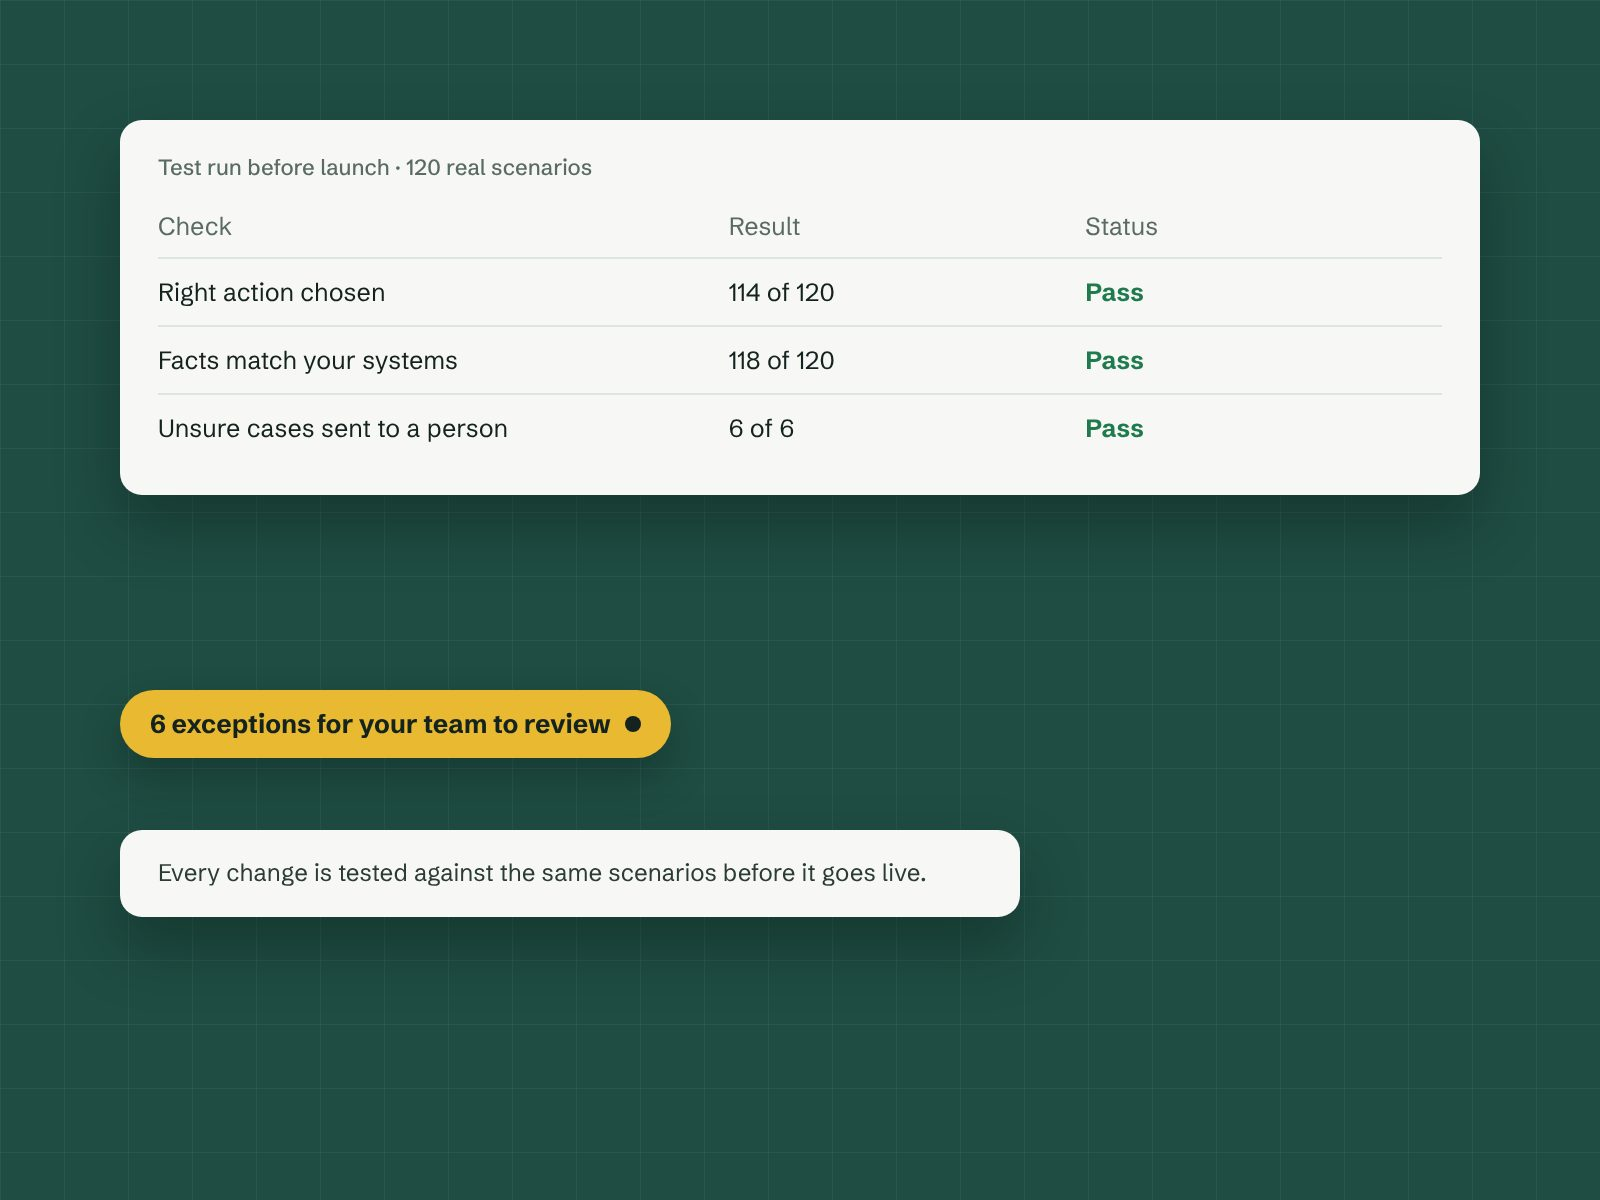
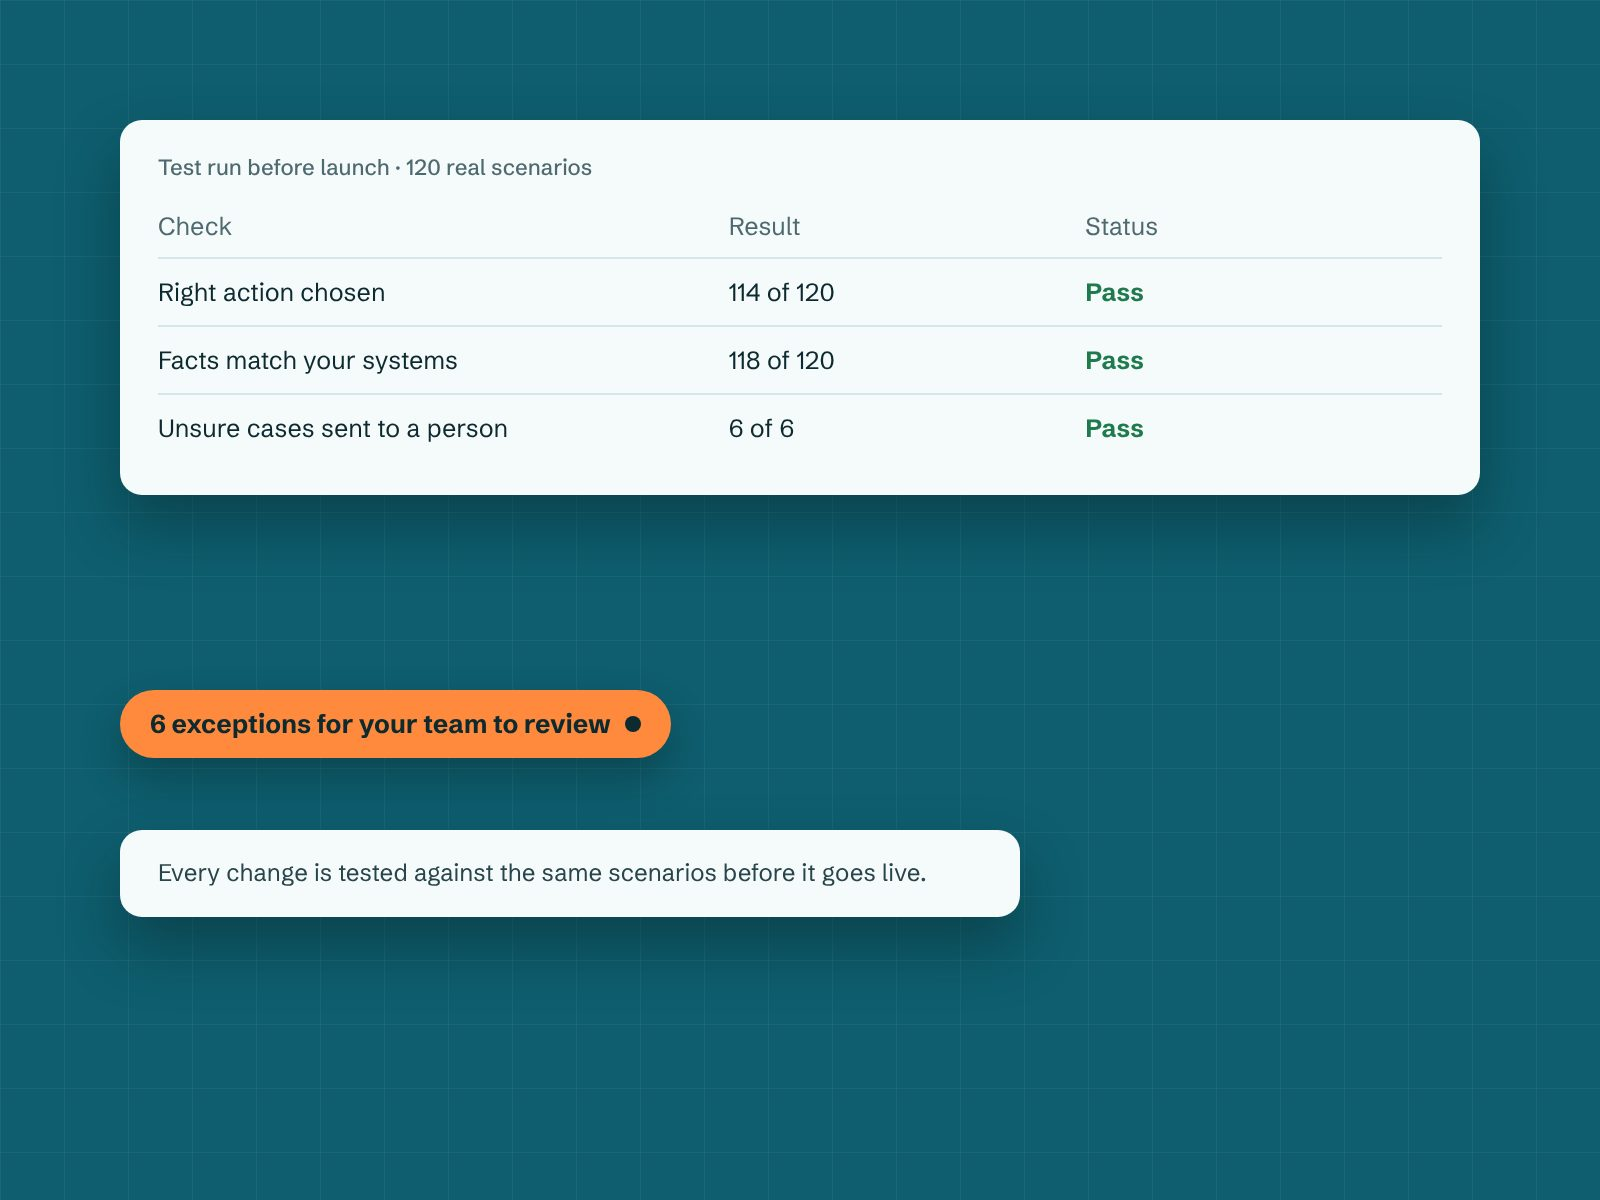
Switch to teal and orange colours

diff --git a/styles.css b/styles.css
@@ -6,15 +6,15 @@
 @font-face { font-family: 'Schibsted Grotesk'; src: url(fonts/schibsted-grotesk-latin-800-normal.woff2) format('woff2'); font-weight: 800; font-display: swap; }
 
 :root {
-  --paper: #F7F8F5;   /* page background */
-  --ink: #14231F;     /* text */
-  --pine: #1F4D43;    /* dark bands */
-  --pine-2: #2C6456;
-  --kowhai: #E8B931;  /* used only where a person stays in control */
-  --mist: #DCE5E0;    /* lines and quiet fills */
-  --slate: #56675F;   /* secondary text */
-  --on-pine: #E9EFEB;
-  --on-pine-muted: #B7C8C0;
+  --paper: #F5FAFA;   /* page background */
+  --ink: #0D2A30;     /* text */
+  --teal: #0E5E6F;    /* dark bands and buttons */
+  --teal-2: #0F6B7E;
+  --accent: #FF8A3D;  /* orange: used only where a person stays in control */
+  --mist: #D6E7EA;    /* lines and quiet fills */
+  --slate: #4E6A70;   /* secondary text */
+  --on-teal: #E6F3F5;
+  --on-teal-muted: #BCDDE3;
   --radius: 14px;
   --wrap: 1160px;
 }
@@ -30,7 +30,7 @@ body {
 img { max-width: 100%; height: auto; display: block; }
 h1, h2, h3, p, ol, ul, dl, figure { margin: 0; }
 a { color: inherit; }
-:focus-visible { outline: 3px solid var(--kowhai); outline-offset: 3px; border-radius: 4px; }
+:focus-visible { outline: 3px solid var(--accent); outline-offset: 3px; border-radius: 4px; }
 
 .wrap { max-width: var(--wrap); margin: 0 auto; padding: 0 24px; }
 .skip { position: absolute; left: -999px; top: 8px; background: var(--ink); color: var(--paper); padding: 8px 14px; z-index: 50; }
@@ -39,7 +39,7 @@ a { color: inherit; }
 /* ---------- Buttons and links ---------- */
 .btn {
   display: inline-flex; align-items: center; justify-content: center; gap: 8px;
-  background: var(--pine); color: var(--paper); text-decoration: none; border: 0;
+  background: var(--teal); color: var(--paper); text-decoration: none; border: 0;
   font: inherit; font-weight: 600; font-size: 16px; line-height: 1.2;
   padding: 15px 24px; border-radius: 999px; cursor: pointer;
 }
@@ -49,18 +49,18 @@ a { color: inherit; }
 .btn-ghost:hover { background: var(--ink); color: var(--paper); }
 .btn-light { background: var(--paper); color: var(--ink); }
 .btn-light:hover { background: #FFFFFF; }
-.btn-kowhai { background: var(--kowhai); color: var(--ink); }
-.btn-kowhai:hover { background: #F2C84A; }
+.btn-accent { background: var(--accent); color: var(--ink); }
+.btn-accent:hover { background: #FF9E5E; }
 .text-link { font-weight: 600; text-decoration-thickness: 2px; text-underline-offset: 4px; }
-.text-link.on-dark { color: var(--paper); text-decoration-color: var(--kowhai); font-size: 20px; }
+.text-link.on-dark { color: var(--paper); text-decoration-color: var(--accent); font-size: 20px; }
 
 /* ---------- Header ---------- */
-.site-head { position: sticky; top: 0; z-index: 20; background: rgba(247, 248, 245, 0.94); backdrop-filter: blur(8px); border-bottom: 1px solid var(--mist); }
+.site-head { position: sticky; top: 0; z-index: 20; background: rgba(245, 250, 250, 0.94); backdrop-filter: blur(8px); border-bottom: 1px solid var(--mist); }
 .head-row { display: flex; align-items: center; gap: 32px; height: 72px; }
 .brand { display: flex; align-items: center; gap: 12px; text-decoration: none; }
 .mark {
   display: grid; place-items: center; width: 40px; height: 40px; border-radius: 10px;
-  background: var(--pine); color: var(--paper); font-weight: 800; font-size: 22px; line-height: 1; padding-bottom: 3px;
+  background: var(--teal); color: var(--paper); font-weight: 800; font-size: 22px; line-height: 1; padding-bottom: 3px;
 }
 .brand-text { display: flex; flex-direction: column; line-height: 1.15; }
 .brand-text strong { font-size: 17px; font-weight: 700; }
@@ -72,9 +72,9 @@ a { color: inherit; }
 /* ---------- Hero ---------- */
 .hero { padding: 64px 0 72px; }
 .hero-grid { display: grid; grid-template-columns: minmax(0, 0.9fr) minmax(0, 1.1fr); gap: 56px; align-items: center; }
-.kicker { font-size: 15px; font-weight: 600; color: var(--pine-2); margin-bottom: 18px; }
+.kicker { font-size: 15px; font-weight: 600; color: var(--teal-2); margin-bottom: 18px; }
 h1 { font-size: clamp(44px, 6vw, 76px); line-height: 0.98; font-weight: 800; letter-spacing: -0.035em; max-width: 11ch; }
-.lead { font-size: 20px; line-height: 1.5; color: #2D3D38; margin-top: 24px; max-width: 40ch; }
+.lead { font-size: 20px; line-height: 1.5; color: #28454B; margin-top: 24px; max-width: 40ch; }
 .btn-row { display: flex; flex-wrap: wrap; gap: 12px; margin-top: 32px; }
 .hero-note { margin-top: 22px; font-size: 15px; color: var(--slate); }
 
@@ -83,7 +83,7 @@ h1 { font-size: clamp(44px, 6vw, 76px); line-height: 0.98; font-weight: 800; let
 .slides { display: grid; }
 .slide { grid-area: 1 / 1; opacity: 0; visibility: hidden; transition: opacity 700ms ease, visibility 0s linear 700ms; }
 .slide.is-active { opacity: 1; visibility: visible; transition: opacity 700ms ease; }
-.slide img { width: 100%; aspect-ratio: 4 / 3; object-fit: cover; border-radius: 22px; background: var(--pine); }
+.slide img { width: 100%; aspect-ratio: 4 / 3; object-fit: cover; border-radius: 22px; background: var(--teal); }
 .slide figcaption { margin-top: 14px; font-size: 16px; line-height: 1.45; color: var(--slate); min-height: 3em; }
 .slide figcaption strong { display: block; color: var(--ink); font-size: 18px; }
 .slider-controls { display: flex; align-items: center; gap: 10px; margin-top: 10px; }
@@ -93,19 +93,19 @@ h1 { font-size: clamp(44px, 6vw, 76px); line-height: 0.98; font-weight: 800; let
 }
 .arrow { width: 36px; font-size: 22px; line-height: 1; padding-bottom: 3px; }
 .pause { margin-left: auto; padding: 0 14px; font-size: 14px; font-weight: 600; }
-.arrow:hover, .pause:hover { background: #CBD8D1; }
+.arrow:hover, .pause:hover { background: #C2DCE0; }
 .dots { display: flex; gap: 8px; }
-.dots button { width: 28px; height: 6px; border-radius: 3px; border: 0; padding: 0; cursor: pointer; background: #C3D1CA; }
-.dots button[aria-current="true"] { background: var(--pine); }
+.dots button { width: 28px; height: 6px; border-radius: 3px; border: 0; padding: 0; cursor: pointer; background: #BBD6DB; }
+.dots button[aria-current="true"] { background: var(--teal); }
 .slider-note { font-size: 13px; color: var(--slate); margin-top: 8px; }
 @media (prefers-reduced-motion: reduce) { .slide { transition: none; } }
 
 /* ---------- Principles strip ---------- */
-.principles { background: var(--pine); color: var(--on-pine); padding: 40px 0; }
+.principles { background: var(--teal); color: var(--on-teal); padding: 40px 0; }
 .principles-row { display: grid; grid-template-columns: repeat(3, 1fr); gap: 40px; }
 .principles h2 { font-size: 19px; font-weight: 700; color: #FFFFFF; display: flex; align-items: center; gap: 10px; }
-.principles p { color: var(--on-pine-muted); margin-top: 6px; font-size: 16px; }
-.hc { width: 12px; height: 12px; border-radius: 50%; background: var(--kowhai); flex: none; }
+.principles p { color: var(--on-teal-muted); margin-top: 6px; font-size: 16px; }
+.hc { width: 12px; height: 12px; border-radius: 50%; background: var(--accent); flex: none; }
 
 /* ---------- Sections ---------- */
 .section { padding: 96px 0; }
@@ -117,32 +117,32 @@ h1 { font-size: clamp(44px, 6vw, 76px); line-height: 0.98; font-weight: 800; let
 .services { list-style: none; padding: 0; display: grid; grid-template-columns: repeat(3, 1fr); gap: 0; counter-reset: svc; border-top: 2px solid var(--ink); }
 .services > li { counter-increment: svc; padding: 28px 28px 32px 0; display: flex; flex-direction: column; gap: 14px; }
 .services > li + li { padding-left: 28px; border-left: 1px solid var(--mist); }
-.step { font-weight: 700; color: var(--pine-2); font-size: 15px; }
+.step { font-weight: 700; color: var(--teal-2); font-size: 15px; }
 .step::before { content: counter(svc) ". "; }
 .services h3 { font-size: 24px; line-height: 1.2; font-weight: 700; letter-spacing: -0.01em; }
-.services > li > p:not(.step) { color: #33443F; }
+.services > li > p:not(.step) { color: #2E4A50; }
 .services ul { padding-left: 18px; color: var(--slate); font-size: 16px; }
 .services ul li { margin-bottom: 4px; }
-.svc-link { margin-top: auto; font-weight: 600; text-decoration-thickness: 2px; text-underline-offset: 4px; text-decoration-color: var(--pine-2); }
+.svc-link { margin-top: auto; font-weight: 600; text-decoration-thickness: 2px; text-underline-offset: 4px; text-decoration-color: var(--teal-2); }
 
 /* In practice: dark band with tabs */
-.band { background: var(--pine); color: var(--on-pine); }
+.band { background: var(--teal); color: var(--on-teal); }
 .band .h2 { color: #FFFFFF; }
-.band .sub { color: var(--on-pine-muted); }
+.band .sub { color: var(--on-teal-muted); }
 .tabs { display: flex; flex-wrap: wrap; gap: 8px; margin-bottom: 32px; }
 .tabs button {
   font: inherit; font-weight: 600; font-size: 15px; cursor: pointer;
   padding: 10px 18px; border-radius: 999px; border: 2px solid rgba(233, 239, 235, 0.35);
-  background: transparent; color: var(--on-pine);
+  background: transparent; color: var(--on-teal);
 }
 .tabs button[aria-selected="true"] { background: var(--paper); color: var(--ink); border-color: var(--paper); }
 .panel { display: grid; grid-template-columns: minmax(0, 1fr) minmax(0, 1fr); gap: 56px; align-items: start; }
 .panel[hidden] { display: none; }
 .panel h3 { font-size: 28px; line-height: 1.15; font-weight: 700; color: #FFFFFF; letter-spacing: -0.015em; max-width: 22ch; }
-.panel-copy > p { margin-top: 16px; color: var(--on-pine-muted); max-width: 52ch; }
+.panel-copy > p { margin-top: 16px; color: var(--on-teal-muted); max-width: 52ch; }
 .panel dl { margin: 24px 0 28px; display: grid; gap: 14px; }
 .panel dt { font-weight: 700; color: #FFFFFF; font-size: 15px; }
-.panel dd { margin: 2px 0 0; color: var(--on-pine-muted); }
+.panel dd { margin: 2px 0 0; color: var(--on-teal-muted); }
 .flow { list-style: none; padding: 0; counter-reset: fl; display: grid; gap: 12px; }
 .flow li {
   counter-increment: fl; position: relative; background: rgba(247, 248, 245, 0.07);
@@ -153,28 +153,28 @@ h1 { font-size: clamp(44px, 6vw, 76px); line-height: 0.98; font-weight: 800; let
   display: grid; place-items: center; background: rgba(233, 239, 235, 0.14); font-weight: 700; font-size: 14px;
 }
 .flow li strong { display: block; color: #FFFFFF; }
-.flow li span { color: var(--on-pine-muted); font-size: 15px; }
-.flow li.human { background: var(--kowhai); border-color: var(--kowhai); }
+.flow li span { color: var(--on-teal-muted); font-size: 15px; }
+.flow li.human { background: var(--accent); border-color: var(--accent); }
 .flow li.human strong, .flow li.human span { color: var(--ink); }
-.flow li.human::before { background: var(--ink); color: var(--kowhai); }
+.flow li.human::before { background: var(--ink); color: var(--accent); }
 
 /* Approach: a four-step sequence */
 .timeline { list-style: none; padding: 0; counter-reset: tl; display: grid; grid-template-columns: repeat(4, 1fr); gap: 28px; margin-bottom: 44px; }
 .timeline li { counter-increment: tl; padding-top: 18px; border-top: 2px solid var(--ink); }
-.timeline li::before { content: counter(tl); display: block; font-size: 40px; font-weight: 800; color: var(--pine-2); line-height: 1; margin-bottom: 14px; }
+.timeline li::before { content: counter(tl); display: block; font-size: 40px; font-weight: 800; color: var(--teal-2); line-height: 1; margin-bottom: 14px; }
 .timeline h3 { font-size: 19px; font-weight: 700; line-height: 1.25; }
 .timeline p { margin-top: 8px; color: var(--slate); font-size: 16px; }
 
 /* About */
-.about { background: #EEF2EF; }
+.about { background: #EAF4F5; }
 .about-grid { display: grid; grid-template-columns: 280px minmax(0, 1fr); gap: 64px; align-items: start; }
 .monogram {
-  width: 120px; height: 120px; border-radius: 28px; background: var(--pine); color: var(--paper);
+  width: 120px; height: 120px; border-radius: 28px; background: var(--teal); color: var(--paper);
   display: grid; place-items: center; font-size: 46px; font-weight: 800; letter-spacing: -0.04em; padding-bottom: 6px;
 }
 .name { font-size: 22px; font-weight: 700; margin-top: 20px; }
 .role { color: var(--slate); margin: 4px 0 14px; }
-.about-copy p { margin-top: 18px; max-width: 62ch; color: #2D3D38; }
+.about-copy p { margin-top: 18px; max-width: 62ch; color: #28454B; }
 .about-copy .direct { font-weight: 700; color: var(--ink); }
 
 /* FAQ */
@@ -185,16 +185,16 @@ h1 { font-size: clamp(44px, 6vw, 76px); line-height: 0.98; font-weight: 800; let
   cursor: pointer; list-style: none; padding: 20px 40px 20px 0; position: relative; font-weight: 600; font-size: 18px;
 }
 .faq-list summary::-webkit-details-marker { display: none; }
-.faq-list summary::after { content: '+'; position: absolute; right: 4px; top: 16px; font-size: 26px; font-weight: 400; color: var(--pine-2); }
+.faq-list summary::after { content: '+'; position: absolute; right: 4px; top: 16px; font-size: 26px; font-weight: 400; color: var(--teal-2); }
 .faq-list details[open] summary::after { content: '−'; }
 .faq-list details p { padding: 0 40px 22px 0; color: var(--slate); max-width: 60ch; }
 
 /* Contact */
-.contact { background: var(--ink); color: var(--on-pine); }
+.contact { background: var(--ink); color: var(--on-teal); }
 .contact .h2 { color: #FFFFFF; }
-.contact .sub { color: var(--on-pine-muted); margin-bottom: 28px; }
+.contact .sub { color: var(--on-teal-muted); margin-bottom: 28px; }
 .contact-grid { display: grid; grid-template-columns: minmax(0, 1fr) minmax(0, 1fr); gap: 64px; align-items: start; }
-.small { font-size: 14px; color: var(--on-pine-muted); margin-top: 10px; }
+.small { font-size: 14px; color: var(--on-teal-muted); margin-top: 10px; }
 .enquiry { display: grid; gap: 6px; background: rgba(247, 248, 245, 0.05); border: 1px solid rgba(233, 239, 235, 0.14); border-radius: 18px; padding: 28px; }
 .enquiry label { font-weight: 600; font-size: 15px; color: #FFFFFF; margin-top: 10px; }
 .enquiry input, .enquiry select, .enquiry textarea {
@@ -202,15 +202,15 @@ h1 { font-size: clamp(44px, 6vw, 76px); line-height: 0.98; font-weight: 800; let
   border: 2px solid transparent; border-radius: 10px; padding: 12px 14px; width: 100%;
 }
 .enquiry textarea { resize: vertical; }
-.enquiry input:focus, .enquiry select:focus, .enquiry textarea:focus { outline: none; border-color: var(--kowhai); }
+.enquiry input:focus, .enquiry select:focus, .enquiry textarea:focus { outline: none; border-color: var(--accent); }
 .enquiry .btn { margin-top: 18px; justify-self: start; }
 .form-error { color: #FFD8D2; font-weight: 600; margin-top: 8px; }
 
 /* Footer */
-.site-foot { background: var(--ink); color: var(--on-pine-muted); border-top: 1px solid rgba(233, 239, 235, 0.12); padding: 28px 0; }
+.site-foot { background: var(--ink); color: var(--on-teal-muted); border-top: 1px solid rgba(233, 239, 235, 0.12); padding: 28px 0; }
 .foot-row { display: flex; flex-wrap: wrap; align-items: center; gap: 12px 32px; }
 .site-foot .brand-text strong { color: #FFFFFF; }
-.site-foot .brand-text span { color: var(--on-pine-muted); }
+.site-foot .brand-text span { color: var(--on-teal-muted); }
 .site-foot .mark { background: var(--paper); color: var(--ink); }
 .site-foot p { font-size: 15px; }
 .site-foot .small { margin: 0 0 0 auto; }

diff --git a/index.html b/index.html
@@ -7,7 +7,7 @@
 <meta name="description" content="Independent AI consulting in New Zealand. I help you find the right opportunities for AI, build the solution, and put it to work.">
 <link rel="preload" href="fonts/schibsted-grotesk-latin-700-normal.woff2" as="font" type="font/woff2" crossorigin>
 <link rel="icon" href="favicon.svg" type="image/svg+xml">
-<link rel="stylesheet" href="styles.css?v=1">
+<link rel="stylesheet" href="styles.css?v=2">
 </head>
 <body>
 
@@ -288,7 +288,7 @@
         <label for="f-msg">A little about your challenge <span aria-hidden="true">*</span></label>
         <textarea id="f-msg" name="message" rows="5" placeholder="We spend a lot of time on…" required></textarea>
         <p class="form-error" id="form-error" role="alert" hidden></p>
-        <button class="btn btn-kowhai" type="submit">Prepare my enquiry</button>
+        <button class="btn btn-accent" type="submit">Prepare my enquiry</button>
         <p class="small">Opens a draft in your email app for you to review and send. Nothing is stored on this site.</p>
       </form>
     </div>
